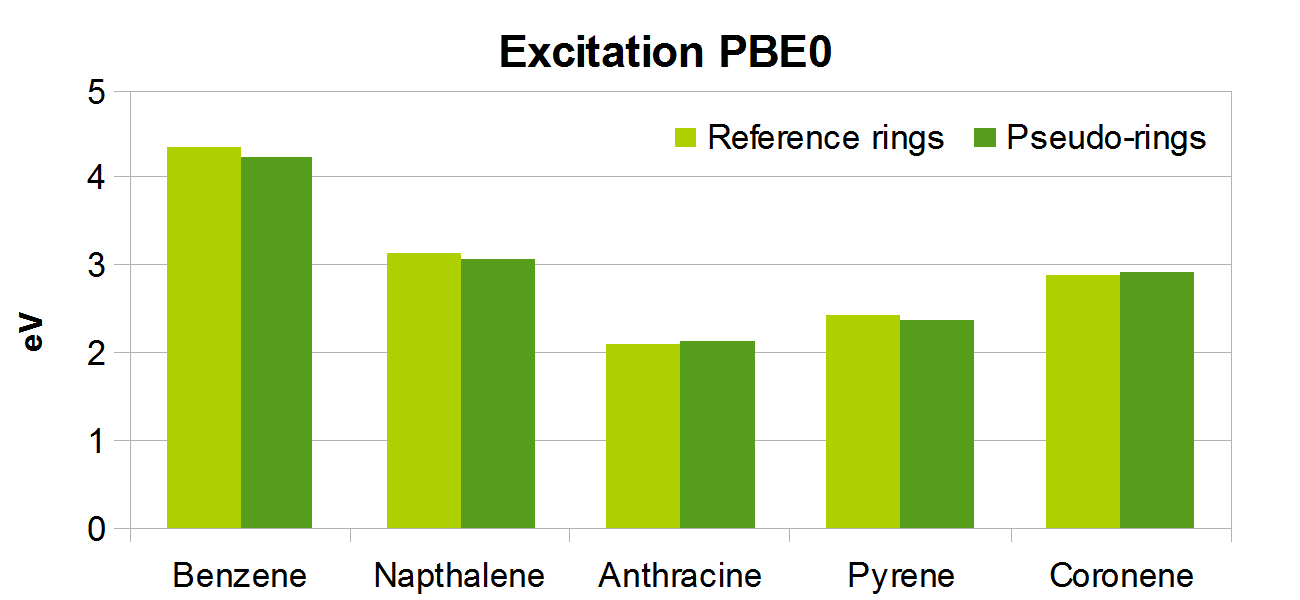
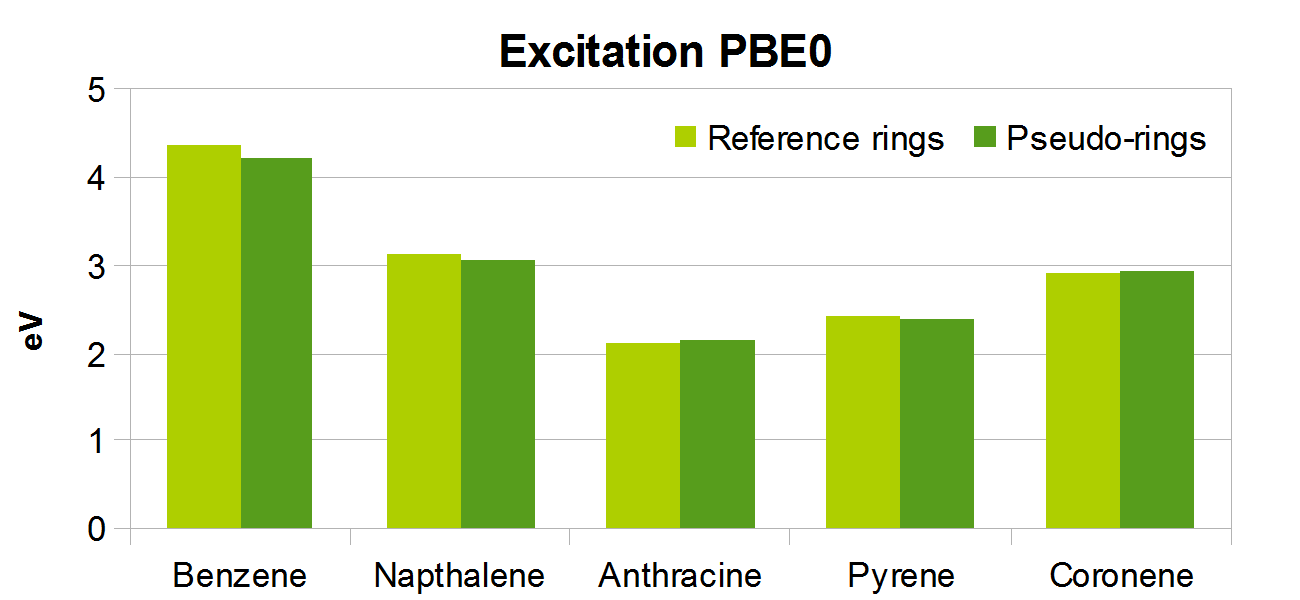
Added new images and text comments.

diff --git a/main.tex b/main.tex
@@ -116,7 +116,7 @@ separate page at the end of the document.
 %% if an abstract is not used by the target journal.
 %%%%%%%%%%%%%%%%%%%%%%%%%%%%%%%%%%%%%%%%%%%%%%%%%%%%%%%%%%%%%%%%%%%%%
 \begin{abstract}
-I make notes in [] as I go so I can come back and fill them in later. I use capital letters so the notes are obvious to the eye (I'm not actually shouting). That way you don't accidentally leave them in when you hand your papers in. That is not a good experience.
+A pseudo-potential system for recreating an sp\(_{2}\) carbon atom is built and tested as a building block for various pseudo-hydrocarbon chain and ring systems.  This pseudo-system removes all non-valence electrons and has a central charge of 1. 1\textsuperscript{st} ionisation and excitation energies, as well as the HOMO energy, are found to be reproduced to a good accuracy by the pseudo-system.
 \end{abstract}
 
 %%%%%%%%%%%%%%%%%%%%%%%%%%%%%%%%%%%%%%%%%%%%%%%%%%%%%%%%%%%%%%%%%%%%%
@@ -394,8 +394,6 @@ DFT & 3.483 & 1.0 \\
 \label{table:ch3_p_potentials}
 \end{table}
 
-[SHOULD I HAVE SOME RESULTS TO SHOW THE SAME IS TRUE OF USING JUST THE P POTENTIALS?]
-
 \subsection{C\(_{2n}\)H\(_{2n+2}\)}
 
 Having successfully created a pseudo-ethene with the correct HOMO, we attempt to have the pseudo-system replicate other properties of the real system. Reference values for the singlet-triplet \(\pi-\pi*\) excitation and first ionisation energies of ethene are given in Table \ref{table:ref_ethene_excitation_energies}. Testing the relevant energies for the pseudo-systems, the early results are not promising, as we can see from Table \ref{table:early_ethene_excitations}. However, after we abandon the notion of sticking strictly to a \(p_{z}\)-potential exponent that gives the maximum overlap with the real orbital, we discover there is a "sweet spot" of potential coefficients and exponents around which the correct values begin to emerge. Table \ref{table:ref_ethene_excitation_energies} shows our optimal result, chosen to give HOMO, excitation and ionisation energies closest to the reference values. 
@@ -510,7 +508,7 @@ Singlet HOMO error (\%) & \(\leq\) 3.0 & \(\leq\) 5.3 & \(\leq\) 9.8 & \(\leq\) 
 
 \subsection{Large Systems}
 
-The potentials derived abotve are also tested on larger systems. Figure [REF] shows the excitation, ionisation and HOMO energies for several ring systems. As with the short chain alkenes, the general trend of the results is well-replicated by the pseudo-systems, and the percentage errors, displayed in Table \ref{table:ring_system_errors}, are similar. 
+The potentials derived above are also tested on larger systems. Figure \ref{fig:rings_graphs} shows the excitation, ionisation and HOMO energies for several ring systems. As with the short chain alkenes, the general trend of the results is well-replicated by the pseudo-systems, and the percentage errors, displayed in Table \ref{table:ring_system_errors}, are similar. 
 
 \begin{table}[ht]
 \caption{\%-errors across calculation types for ring-systems}
@@ -542,19 +540,25 @@ Singlet HOMO error (\%) & \(\leq\)  & \(\leq\)  & \(\leq\)  & \(\leq\)  & \(\leq
 
 Table \ref{table:long_alkene_errors} gives the same energy details for longer chain alkenes. The pattern of decreasing ionisation and excitation energies with increasing HOMO energy is still followed, with the absolute error remaining consistent. However, with chains of this length the excitation energies begin to become smaller than the systematic error between the pseudo-system and reference system results. It is apparent that the pseudo-potentials will need to be more accurate if they are to be useful for studying these molecules.
 
-%\begin{figure}
-%\includegraphics[width=8cm]{rings_pbe_excitation}
-%\includegraphics[width=8cm]{rings_pbe_ionisation}
-%\includegraphics[width=8cm]{rings_pbe_homo}
-%\includegraphics[width=8cm]{rings_tpss_ionisation}
-%\includegraphics[width=8cm]{rings_tpss_excitation}
-%\includegraphics[width=8cm]{rings_tpss_homo}
-%\includegraphics[width=8cm]{rings_tpssh_excitation}
-%\includegraphics[width=8cm]{rings_tpssh_ionisation}
-%\includegraphics[width=8cm]{rings_tpssh_homo}
-%\caption{Comparison on reference and pseudo-system energies across a range of chain alkenes and computational methods.}
-%\label{fig:alkenes_hf_dft}
-%\end{figure}
+\begin{figure}
+\includegraphics[width=8cm]{ring_hf_excitation}
+\includegraphics[width=8cm]{ring_hf_ionisation}
+\includegraphics[width=8cm]{ring_hf_homo}
+\includegraphics[width=8cm]{ring_pbe0_excitation}
+\includegraphics[width=8cm]{ring_pbe0_ionisation}
+\includegraphics[width=8cm]{ring_pbe0_homo}
+\includegraphics[width=8cm]{ring_pbe_excitation}
+\includegraphics[width=8cm]{ring_pbe_ionisation}
+\includegraphics[width=8cm]{ring_pbe_homo}
+\includegraphics[width=8cm]{ring_tpss_ionisation}
+\includegraphics[width=8cm]{ring_tpss_excitation}
+\includegraphics[width=8cm]{ring_tpss_homo}
+\includegraphics[width=8cm]{ring_tpssh_excitation}
+\includegraphics[width=8cm]{ring_tpssh_ionisation}
+\includegraphics[width=8cm]{ring_tpssh_homo}
+\caption{Comparison on reference and pseudo-system energies across a range of ring molecules and computational methods.}
+\label{fig:rings_graphs}
+\end{figure}
 
 
 %%%%%%%%%%%%%%%%%%%%%%%%%%%%%%%%%%%%%%%%%%%%%%%%%%%%%%%%%%%%%%%%%%%%%
